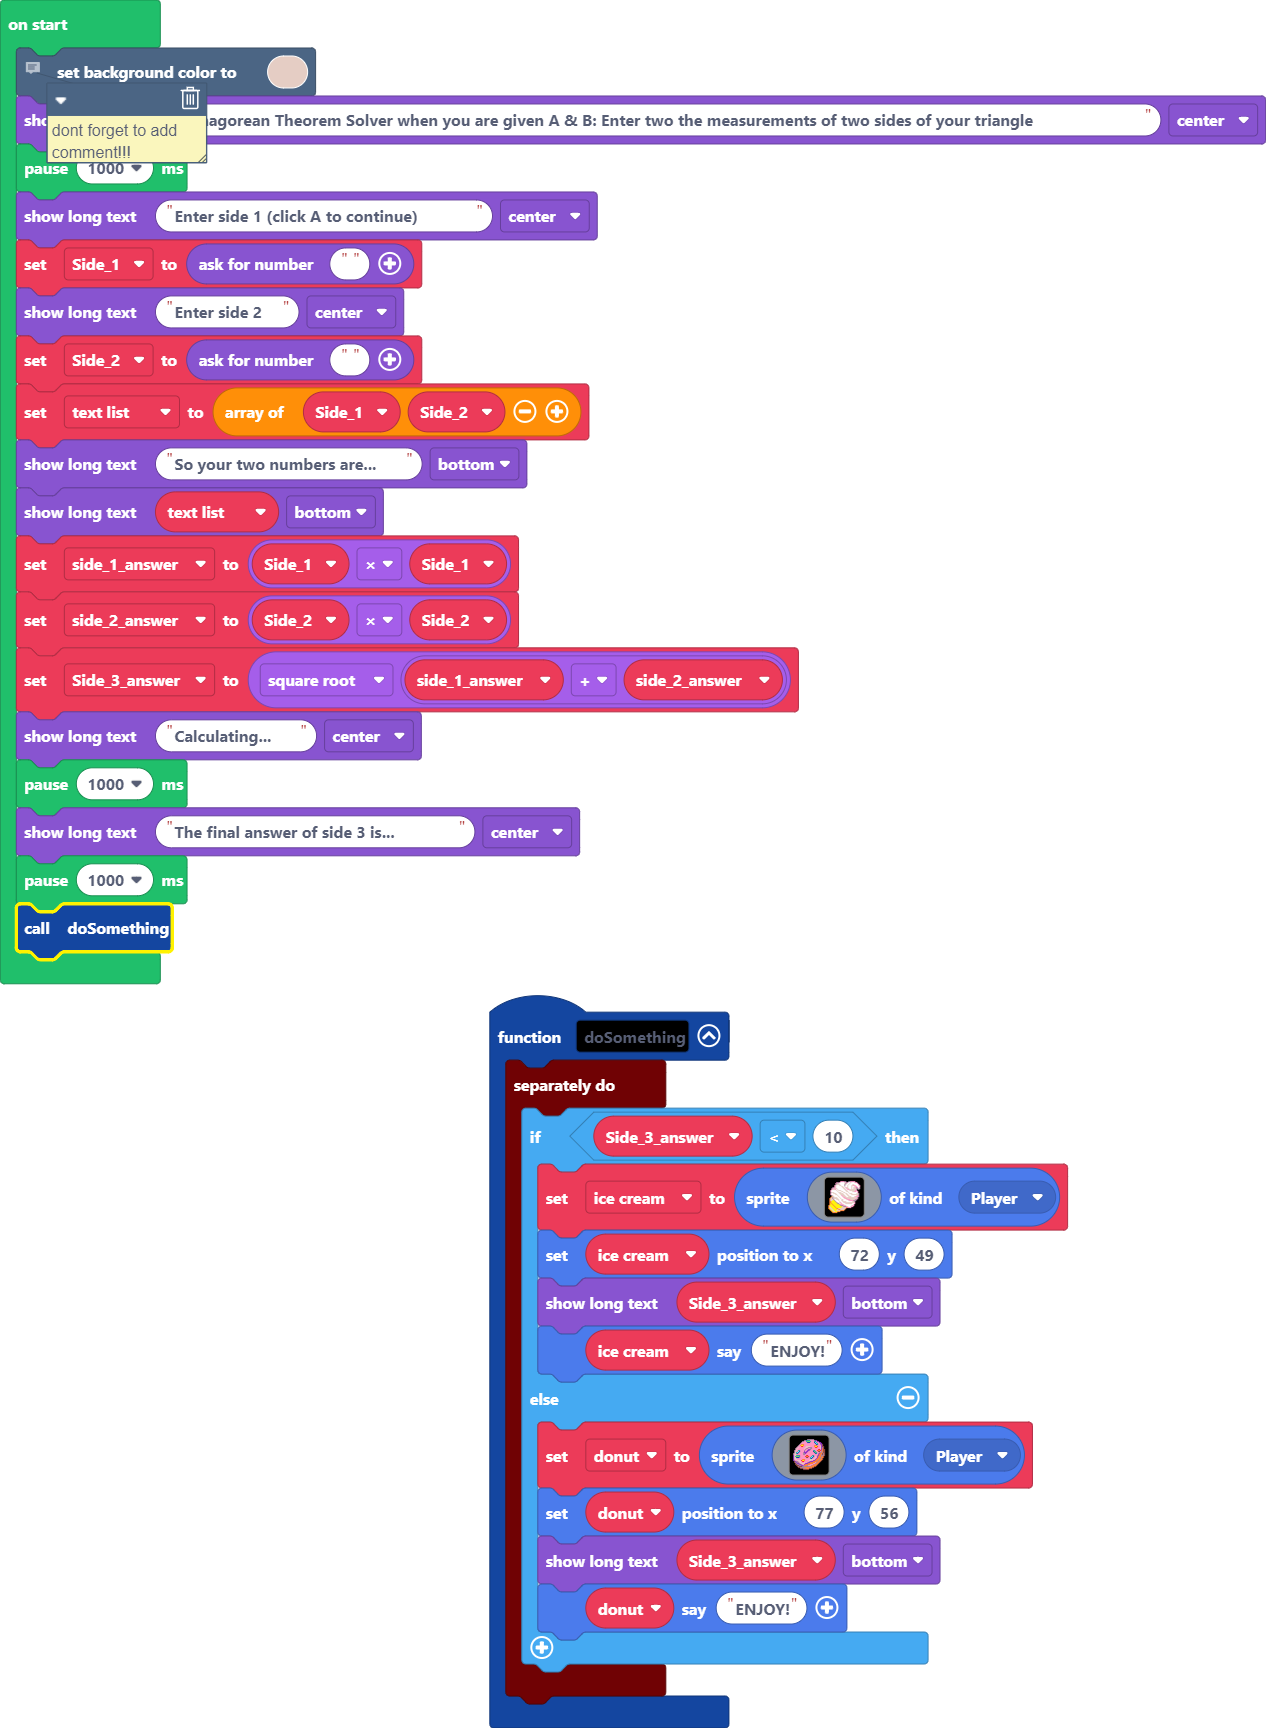
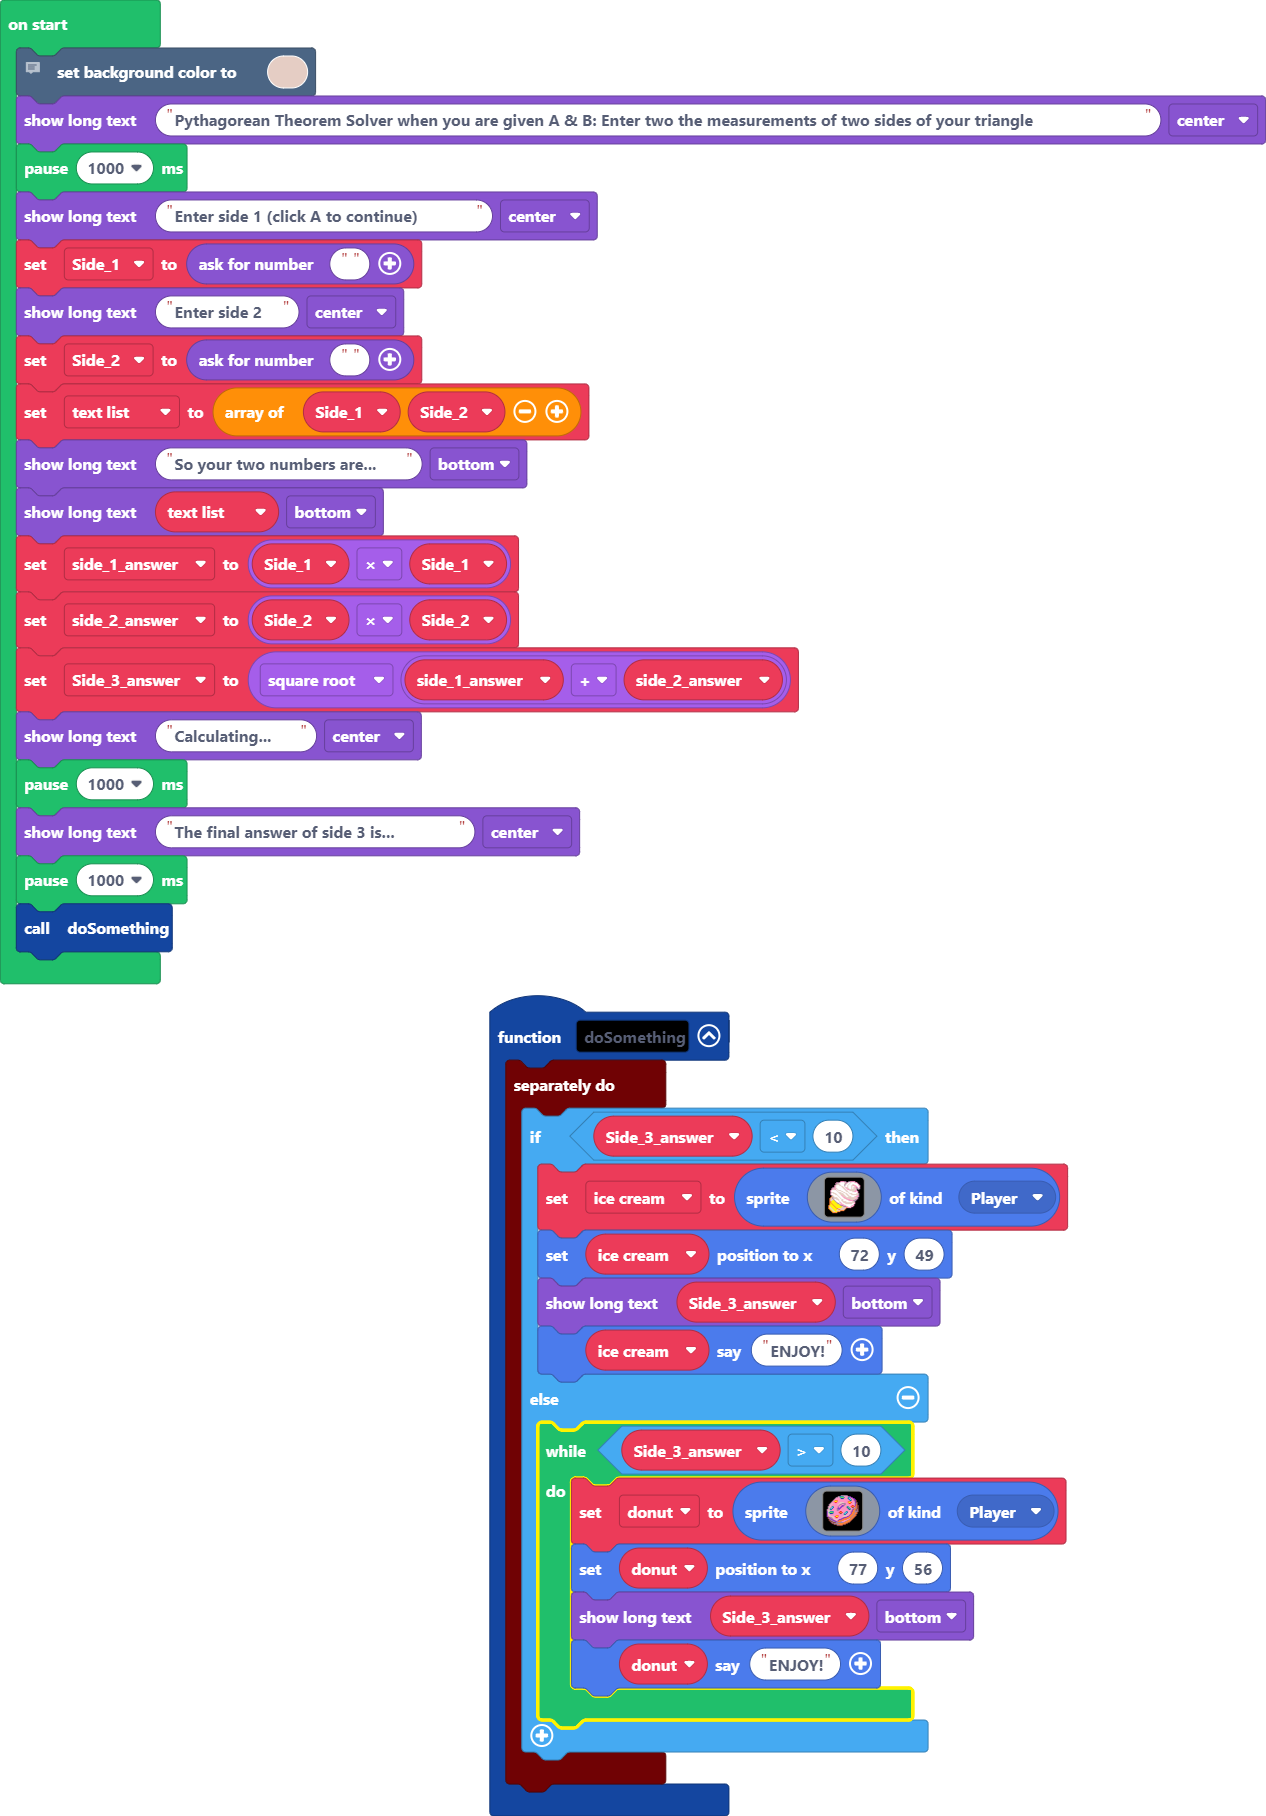
Update main.blocks, main.ts

Changed region(s): [[0.0, 0.0, 1.0, 0.5938], [0.3697, 0.5312, 0.8626, 0.9688]]

diff --git a/main.ts b/main.ts
@@ -39,43 +39,45 @@ function doSomething () {
             game.showLongText(Side_3_answer, DialogLayout.Bottom)
             ice_cream.sayText("ENJOY!")
         } else {
-            donut = sprites.create(img`
-                ..............bbbbbbb...........
-                ...........bb66663333baa........
-                .........bb3367776333663aa......
-                ........b33333888333389633aa....
-                .......b3333333333333389633aa...
-                ......b34443333333333338633bae..
-                .....b3455433333333334443333ae..
-                ....b33322333dddd3333455233daee.
-                ...b3d333333dd3bbbb33322333dabe.
-                ..b3d333333d3bb33bb33333333da4e.
-                ..bd33333333b33aab3333333223a4ee
-                .b3d3663333b33aab33366332442b4ee
-                .bd3b983333a3aa3333387633ee3b4ee
-                .bd6983333baaa333333387633bb4bee
-                b3d6833333bba333333333863ba44ebe
-                bdd3333333bb3333333333333a44bebe
-                add666633333322333366333ba44bbbe
-                ad67776333332442336983d3a444b4e.
-                add888b333333ee3369833d3a44b44e.
-                add333333333333336833d3a444b4e..
-                a3dd3333344433333dddd3a444b44e..
-                ab33ddd325543333dd33aa444b44e...
-                .eabb3dd32233333baaa4444b44e....
-                .ebabb3d333d33baa444443b44e.....
-                ..ebaab3ddd3aaa4444433b44e......
-                ..eebbaab33a44444333b444e.......
-                ...eeebbaab444b333b4444e........
-                ....ebeeebbbbbbbb4444ee.........
-                .....eebbbb44444444ee...........
-                .......eeebbb444eee.............
-                ..........eeeeee................
-                ................................
-                `, SpriteKind.Player)
-            donut.setPosition(77, 56)
-            game.showLongText(Side_3_answer, DialogLayout.Bottom)
-            donut.sayText("ENJOY!")
+            while (Side_3_answer > 10) {
+                donut = sprites.create(img`
+                    ..............bbbbbbb...........
+                    ...........bb66663333baa........
+                    .........bb3367776333663aa......
+                    ........b33333888333389633aa....
+                    .......b3333333333333389633aa...
+                    ......b34443333333333338633bae..
+                    .....b3455433333333334443333ae..
+                    ....b33322333dddd3333455233daee.
+                    ...b3d333333dd3bbbb33322333dabe.
+                    ..b3d333333d3bb33bb33333333da4e.
+                    ..bd33333333b33aab3333333223a4ee
+                    .b3d3663333b33aab33366332442b4ee
+                    .bd3b983333a3aa3333387633ee3b4ee
+                    .bd6983333baaa333333387633bb4bee
+                    b3d6833333bba333333333863ba44ebe
+                    bdd3333333bb3333333333333a44bebe
+                    add666633333322333366333ba44bbbe
+                    ad67776333332442336983d3a444b4e.
+                    add888b333333ee3369833d3a44b44e.
+                    add333333333333336833d3a444b4e..
+                    a3dd3333344433333dddd3a444b44e..
+                    ab33ddd325543333dd33aa444b44e...
+                    .eabb3dd32233333baaa4444b44e....
+                    .ebabb3d333d33baa444443b44e.....
+                    ..ebaab3ddd3aaa4444433b44e......
+                    ..eebbaab33a44444333b444e.......
+                    ...eeebbaab444b333b4444e........
+                    ....ebeeebbbbbbbb4444ee.........
+                    .....eebbbb44444444ee...........
+                    .......eeebbb444eee.............
+                    ..........eeeeee................
+                    ................................
+                    `, SpriteKind.Player)
+                donut.setPosition(77, 56)
+                game.showLongText(Side_3_answer, DialogLayout.Bottom)
+                donut.sayText("ENJOY!")
+            }
         }
     })
 }
